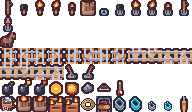
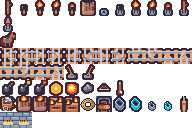
Fixes from the on-screen review: the follow house, three sprites, the status line, a label
- The wanderer's first line ends the talk, so it follows and keeps following; before, the next
  line (stays) came straight after it.  checks/game.loft now lets the line finish before asking
  (falsified: the old talk fails it).
- The relic chest is a closed chest (dungeon:90), no longer the opened one; the lake essence a
  blue vial (dungeon:128), no longer the green potion; the lit forge our own two frames (84, 85):
  the forge's face with fire behind its grate, no longer a red banner.
- The own sheet's row 6 (72-83) had no sources, so a rebuild would have dropped it: sources
  written from the sheet, the palette extended by name with the 11 colours they use (Tiny Farm's
  rope, the charge's glow, the rod); tools/sheet.loft check is clean (it was red).  ART.md.
- The status line in half-size letters: MOVES n fits (it was cut to MOVE); a note (SHUT, SAVED)
  takes its left with the hearts kept beside it.
- SLEEP moved to the bed's left, off the door's cell.

345 tests and 29 checks on the interpreter and --native.

diff --git a/ART.md b/ART.md
@@ -32,7 +32,8 @@ as more monsters; the horse is its first addition beyond light.  The rules its t
 | 3–4 | tracks | 36–51: junctions; 52, 53: the lever |
 | 5 | bombs, the bow | 60–62: the bomb, lying and lit; 63–65: the blast; 66: the bow; 67: an arrow |
 | 6 | the mine's work | 72: a loaded cart; 73, 74: a lit tar barrel; 75, 76: a burning barricade; 77: a coiled rope; 78: a door held shut by a beam; 79–82: crystals, large and small, spent and charged; 83: a lightning rod |
-| 7– | later additions (monsters, …) | |
+| 7 | crafting | 84, 85: the lit forge |
+| 8– | later additions (monsters, …) | |
 
 ### The tiles
 
@@ -66,11 +67,15 @@ as more monsters; the horse is its first addition beyond light.  The rules its t
 | 79, 80 | crystal, spent and charged | Kenney's grey stone (dungeon:56); charged, its light cells turned blue-green |
 | 81, 82 | small crystal, spent and charged | the same, reduced to ten pixels |
 | 83 | lightning rod | Kenney's post (town:47) with an iron spike and a spark on top |
+| 84, 85 | lit forge, frames A and B | Kenney's forge face (dungeon:28) with fire behind its grate's bars, hotter at the bottom; the flame's colours swapped between the frames |
 
 ## The style, measured from `tiny-dungeon.png`
 
-- **Palette.**  Only the 27 colours `tiny-dungeon.png` uses, one letter each in
-  `assets/art/world/palette.txt`; `tools/sheet.loft` refuses any other.
+- **Palette.**  The 27 colours `tiny-dungeon.png` uses, one letter each in
+  `assets/art/world/palette.txt`, and the few a tile took from another Kenney pack (the rope's
+  Tiny Farm browns, the rod's post) or its own glow (a charged crystal), listed below them;
+  `tools/sheet.loft` refuses any other.  A new colour is added there by name, never only in the
+  picture.
 - **Outline.**  `#3f2631` (`o`), 2 px thick on the outside with rounded corners: every empty
   pixel within dx² + dy² ≤ 5 of the figure (measured on the staff, dungeon:129).  Where two
   things overlap, the line between them is 1 px.  **Iron on a wall is outlined in navy**
@@ -123,7 +128,8 @@ Kenney's tiles are drawn larger first and reduced to their size, so that is how 
    only where nothing is beneath — so the route a junction is set to is the one drawn on top.
 5. **Built.**  `loft --lib libs tools/sheet.loft` writes `tile-world.png`.  With `check` it
    instead exits 1 when the committed sheet differs from the sources (`check`, not `--check`:
-   a `--` flag after the script is loft's own).
+   a `--` flag after the script is loft's own).  Every tile has a source: a tile put into the
+   picture by hand is lost at the next build.  Run `check` after any change to the sheet.
 
 ## Presenting it
 
